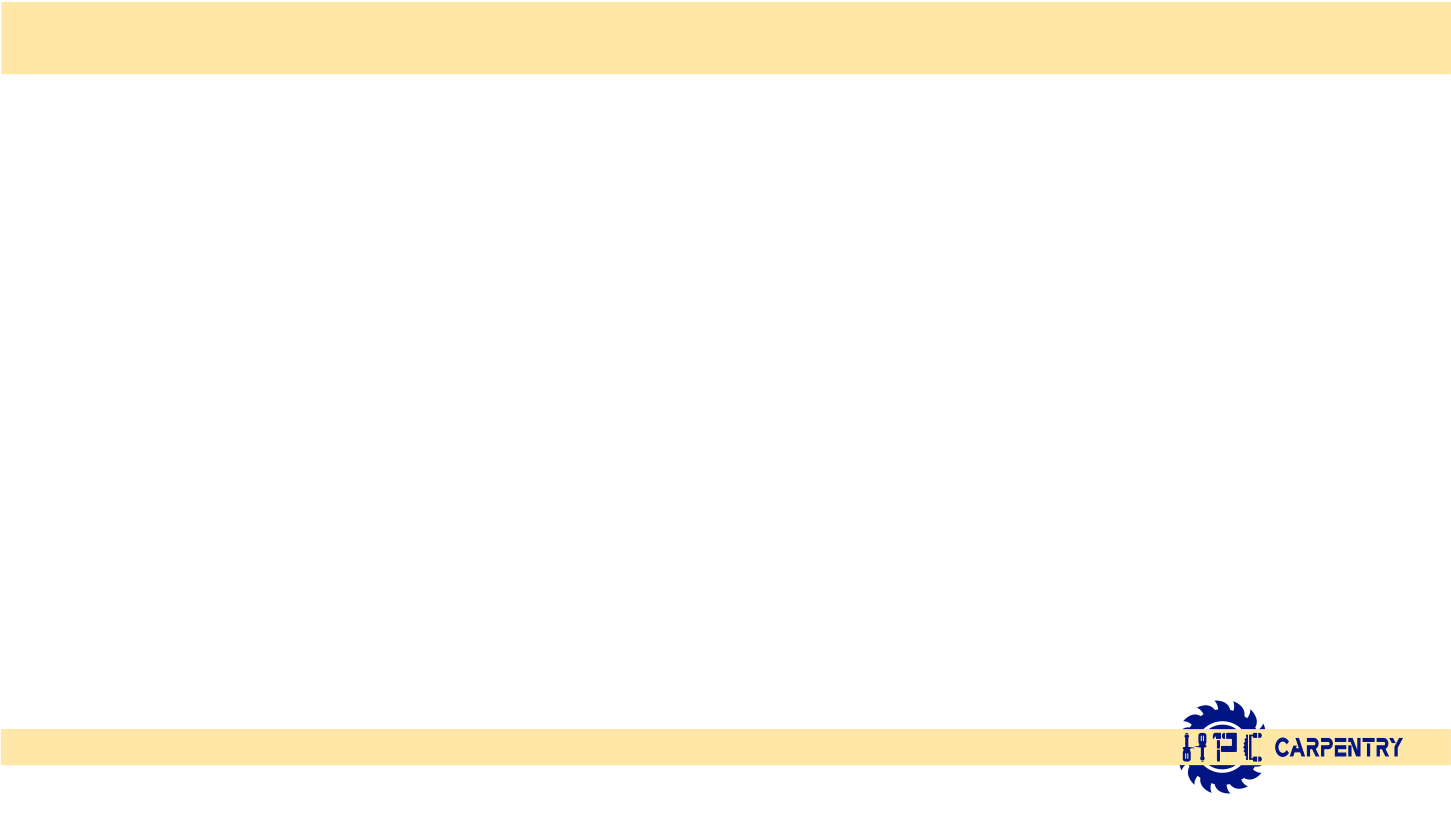
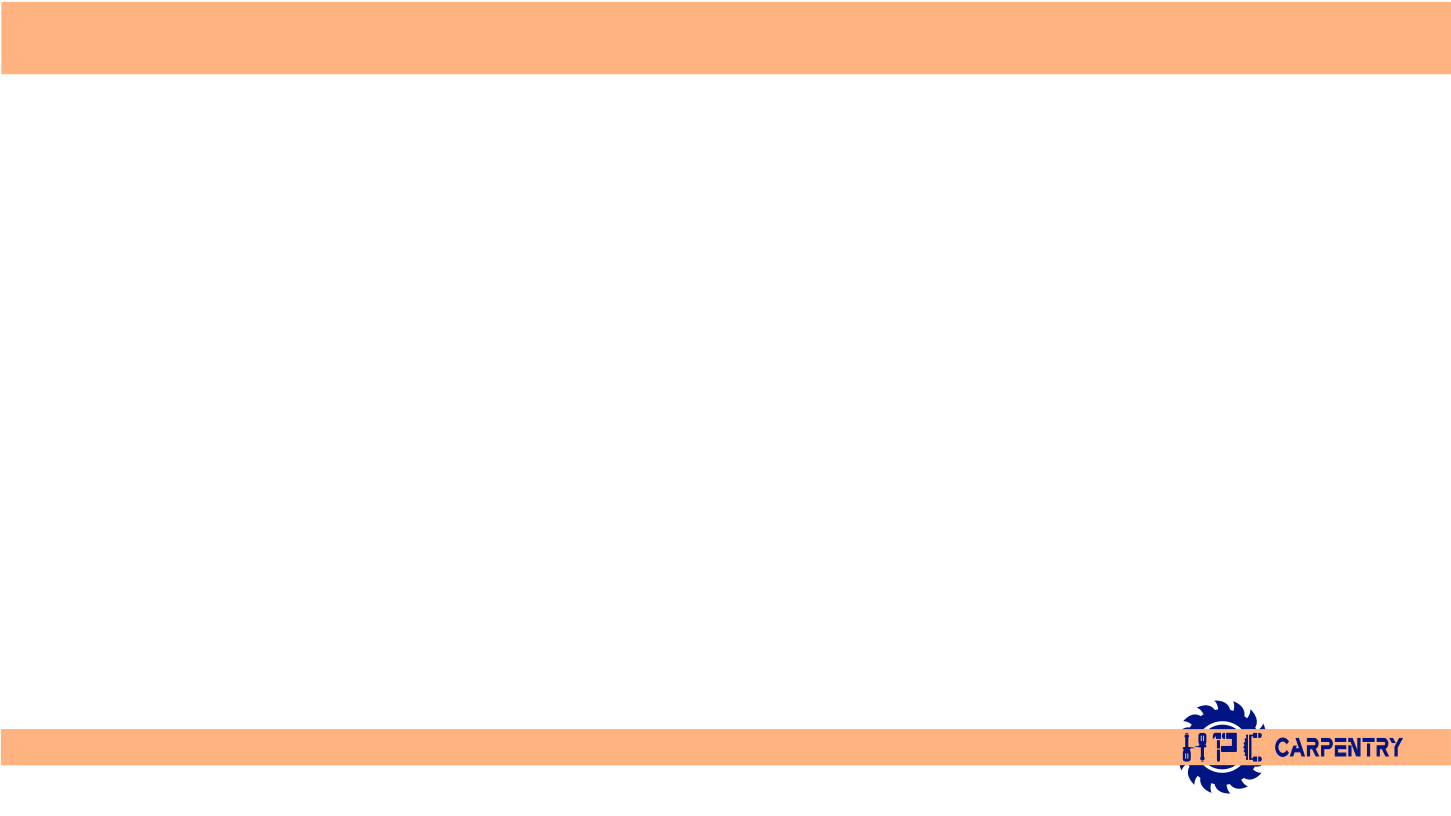
Change red shade

Changed region(s): [[0.0, 0.0, 1.0, 0.0919], [0.0, 0.8885, 1.0, 0.9498]]

diff --git a/HelpNeeded.tex b/HelpNeeded.tex
@@ -20,9 +20,9 @@
 		] (title) at (current page.center)
 		{
 			\begin{itemize}
-				\item Do you have any suggestions for more domain-specific conferences where we could reach members of HPC Carpentry's target audience of learners and or potential instructors hosts for workshops?
-				\item Are you interested in teaching, organising and/or hosting HPC Carpentry workshops?
-				\item Are you interested in getting involved with maintaining the lessons?
+				\item \textbf{Do you have any suggestions for more domain-specific conferences where we could reach members of HPC Carpentry's target audience of learners and or potential instructors hosts for workshops?}
+				\item \textbf{Are you interested in teaching, organising and/or hosting HPC Carpentry workshops?}
+				\item \textbf{Are you interested in getting involved with maintaining the lessons?}
 			\end{itemize}
 		};
 	\end{tikzpicture}

diff --git a/TitleSlide.tex b/TitleSlide.tex
@@ -16,9 +16,9 @@
 		[
 		    above=-0.7cm,
 		    align=center,
-		    draw=black,
-		    left color=black!50,
-		    right color=black!5,
+		    draw=carpblue,
+		    left color=carpblue!50,
+		    right color=carpblue!5,
 		    shading angle=60,
 		    double,
 		    double distance=0.1cm,
